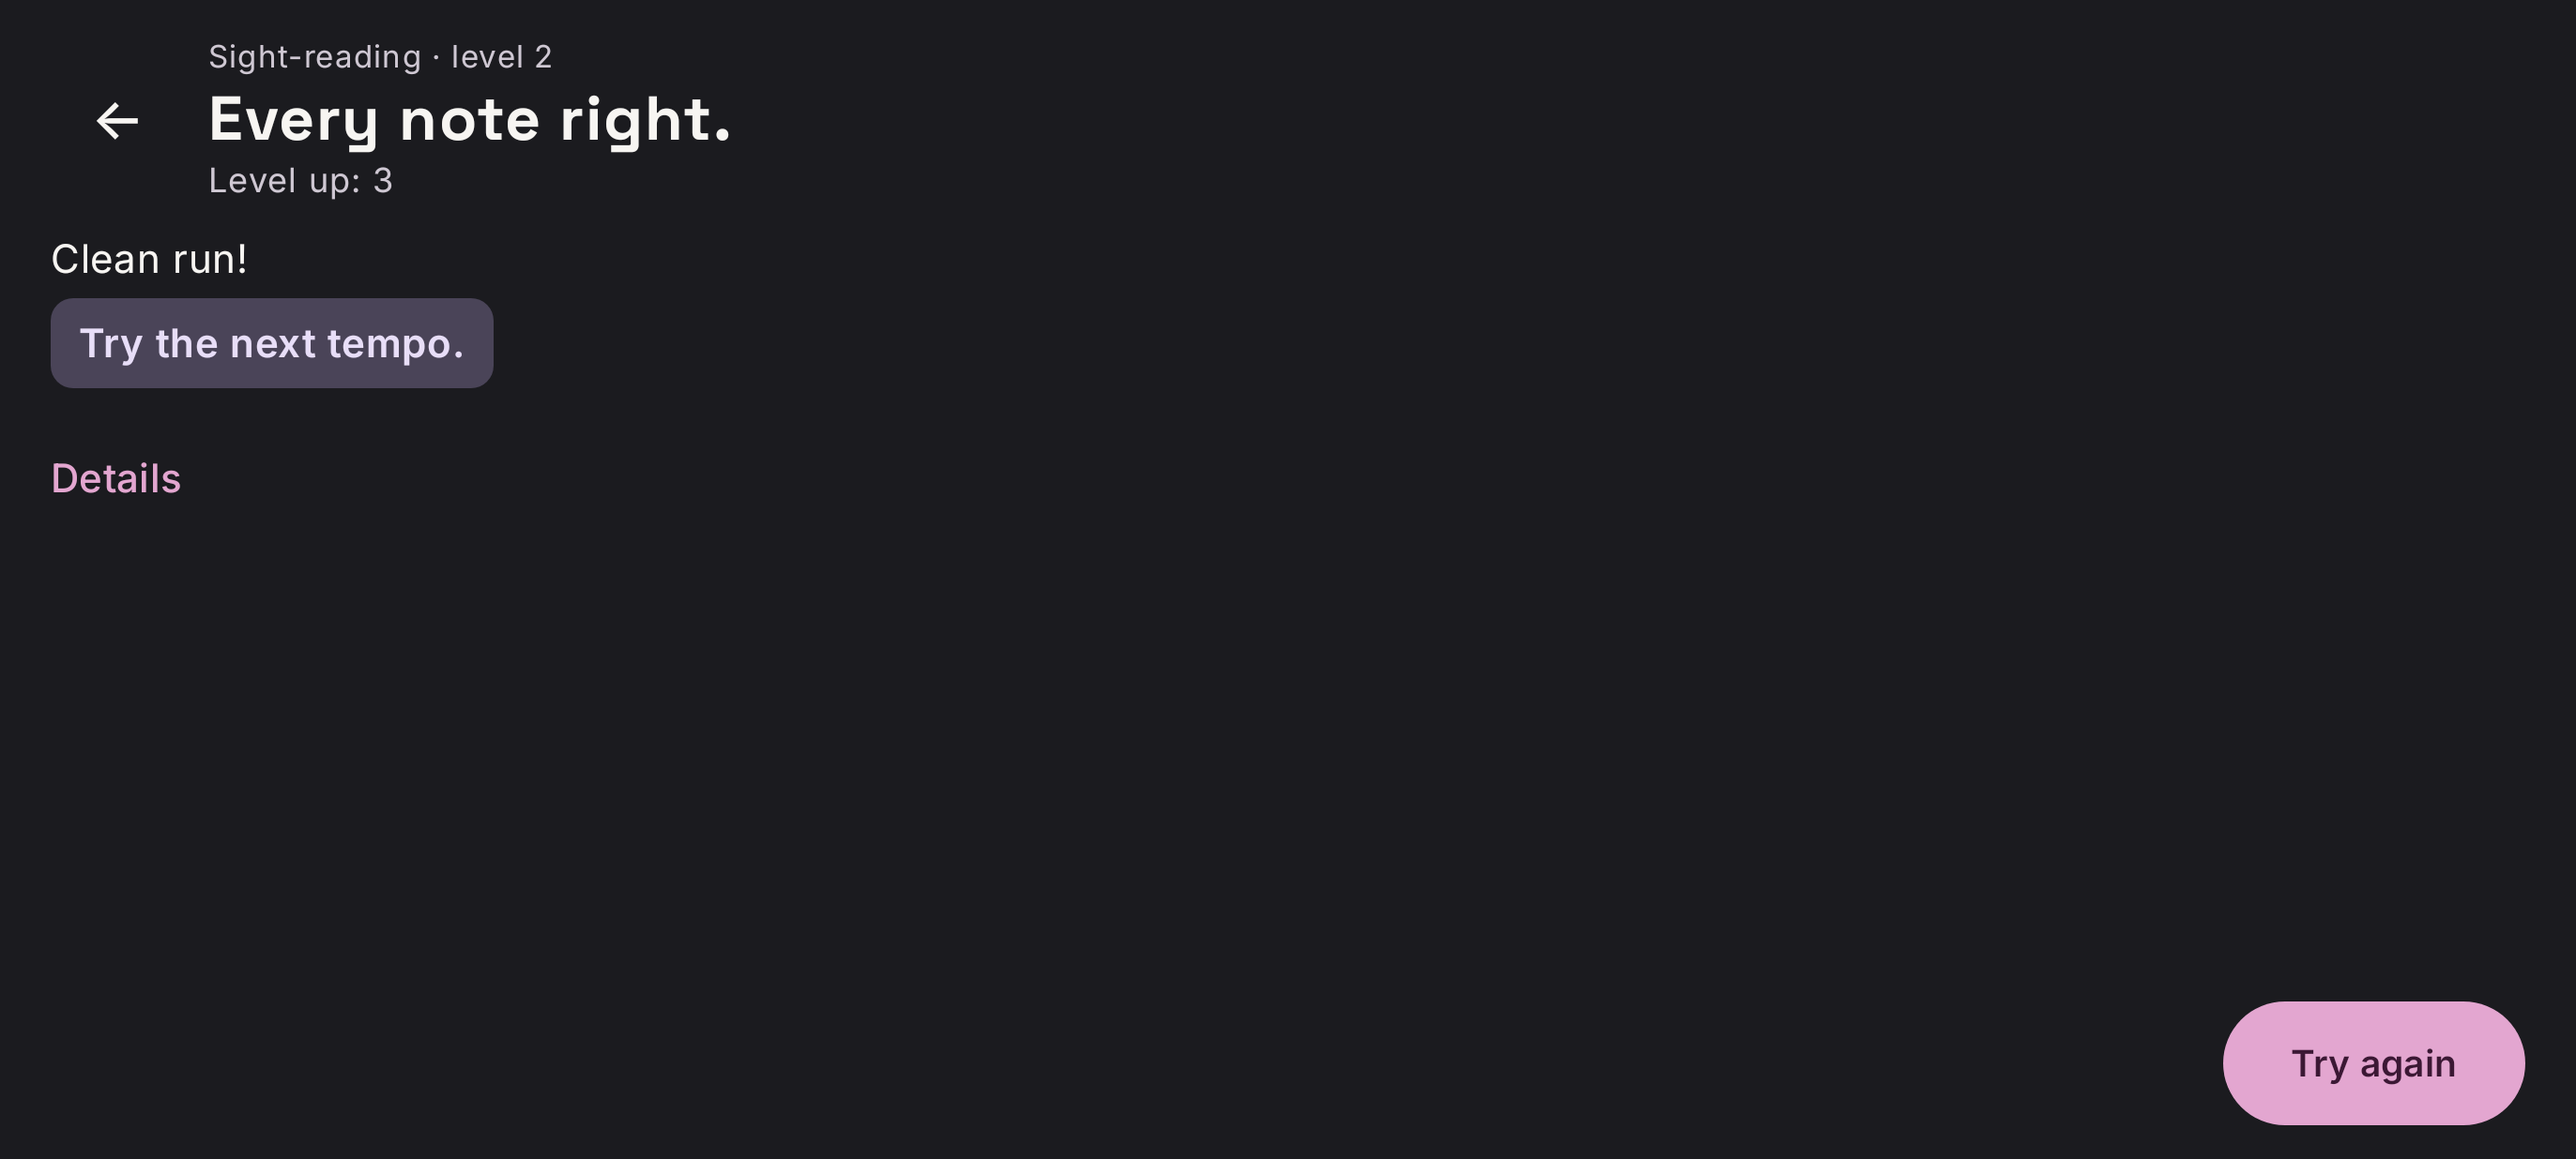
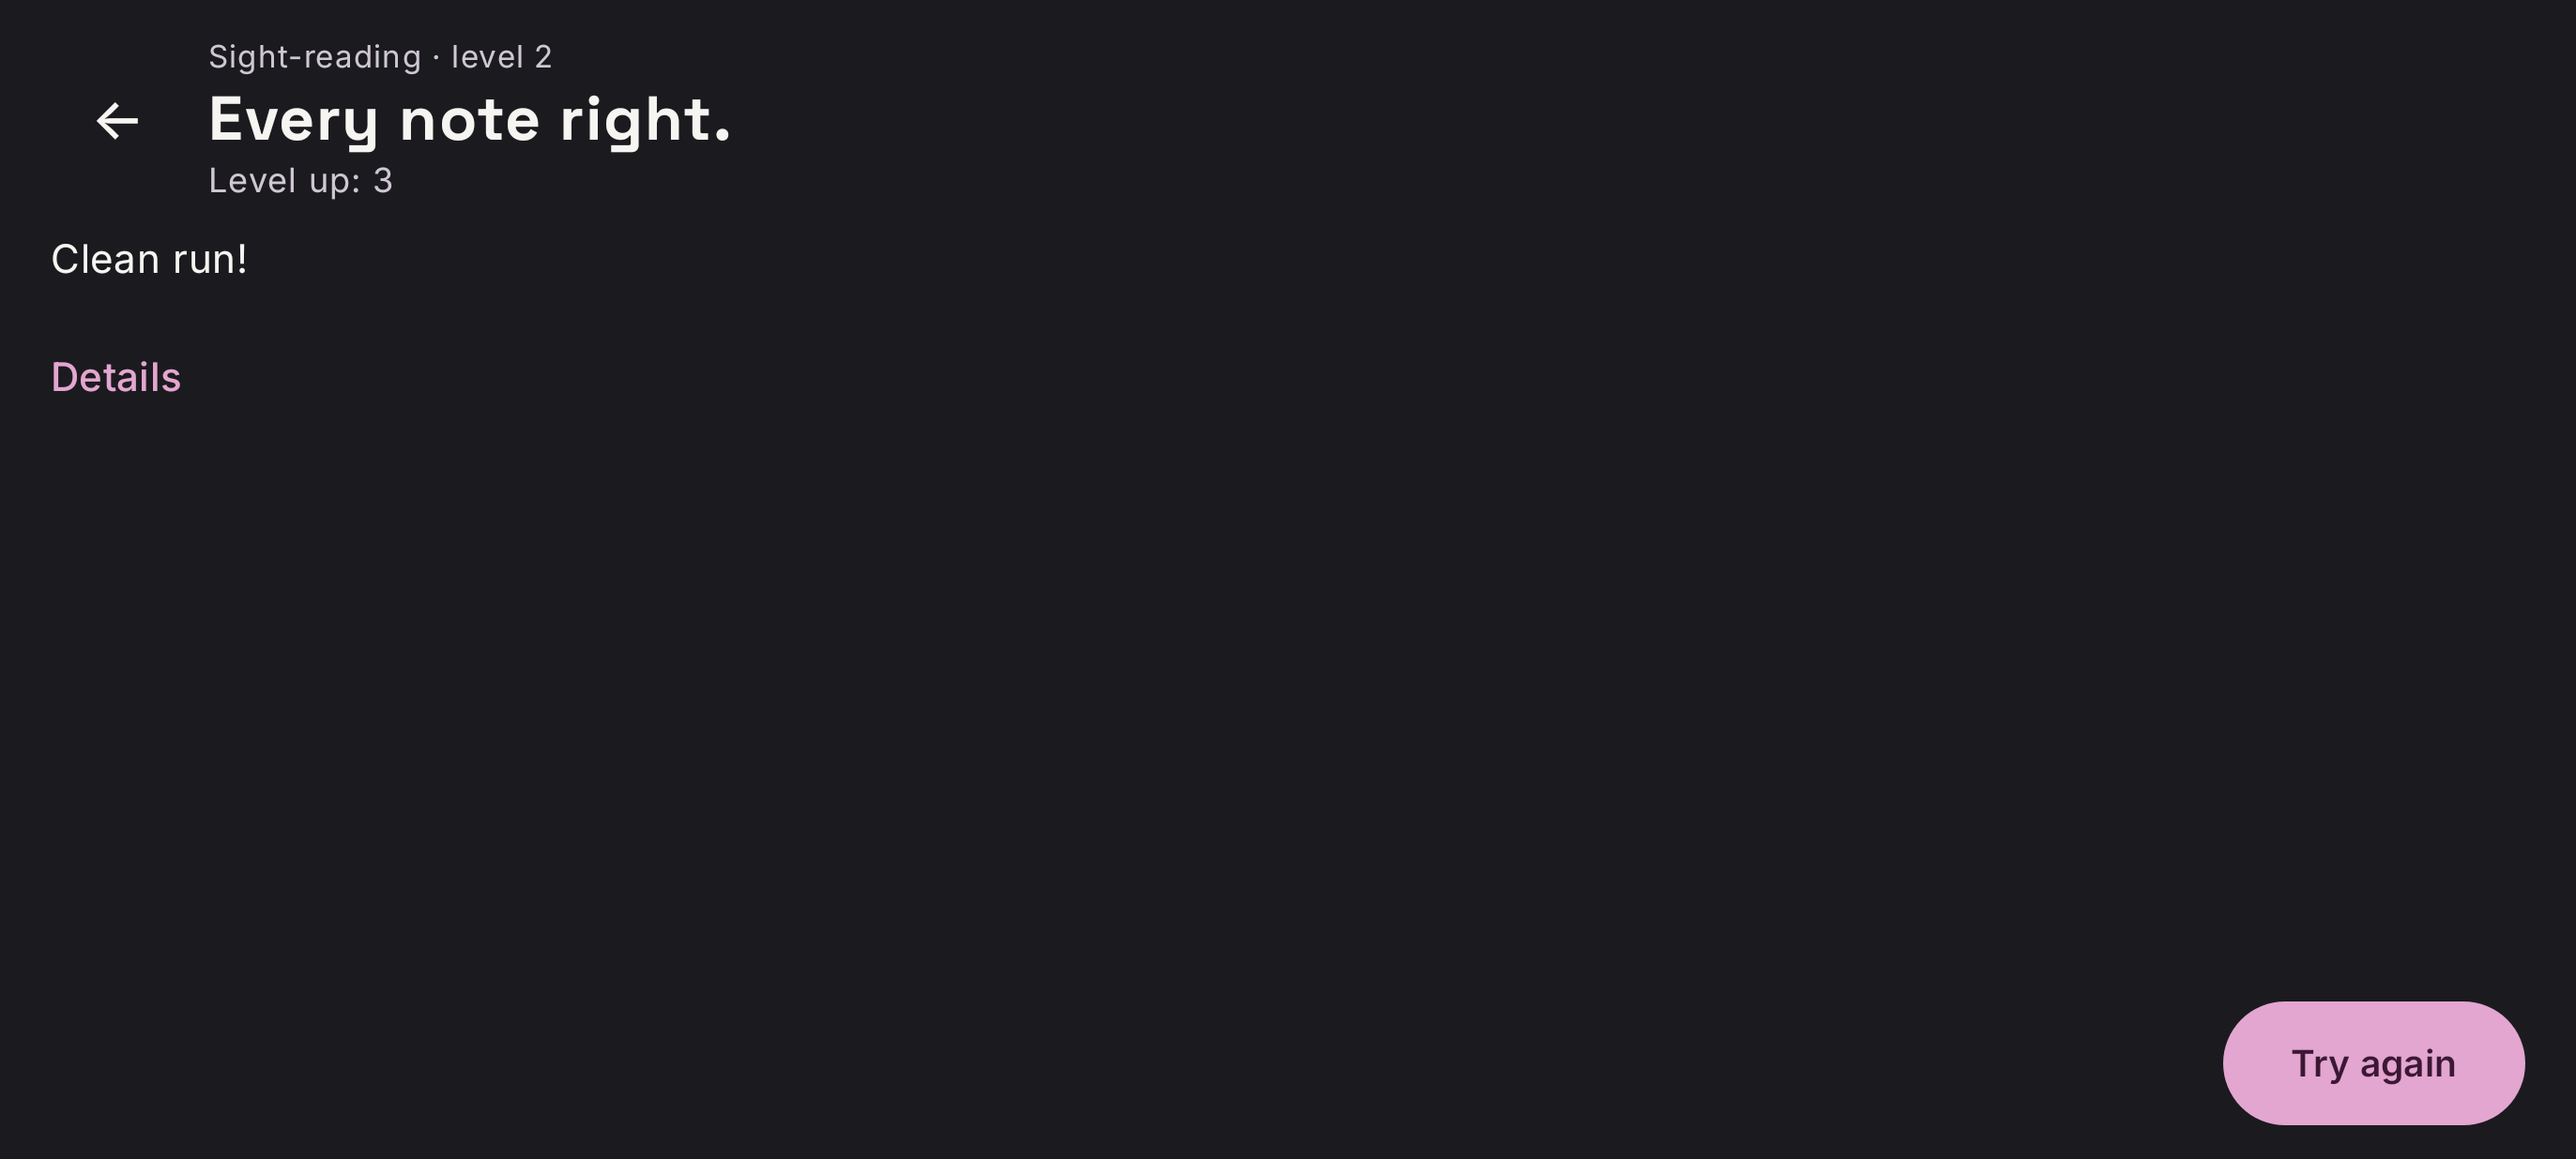
fix(today): sight-reading review fixes
Same learner day for the card's seed and its done-today check, no
next-tempo tip or key glow for sight-reading, id-ordered ties in the fake,
a checked run number in the Results caption and one shared id prefix.

Refs #246

Changed region(s): [[0.0, 0.246, 0.2168, 0.3382], [0.0, 0.3997, 0.0619, 0.4304]]

diff --git a/feature/practice/src/commonMain/kotlin/pianoanchor/feature/practice/ResultsViewModel.kt b/feature/practice/src/commonMain/kotlin/pianoanchor/feature/practice/ResultsViewModel.kt
@@ -31,8 +31,10 @@ import pianoanchor.engine.content.Curriculum
 import pianoanchor.engine.grading.HesitationSummary
 import pianoanchor.engine.grading.LengthSummary
 import pianoanchor.engine.grading.ResultsSummary
+import pianoanchor.engine.grading.ResultsWords
 import pianoanchor.engine.grading.ResultsWordsRule
 import pianoanchor.engine.grading.TimingSummary
+import pianoanchor.engine.grading.Tip
 import pianoanchor.engine.grading.noteNumber
 import pianoanchor.engine.grading.noteValue
 import pianoanchor.engine.guidance.SpotFinder
@@ -103,7 +105,7 @@ public class ResultsViewModel(
                 }
             }
         val summary = analysed?.first
-        val words = ResultsWordsRule.of(summary ?: waitSummary(attempt), attempt.tempoBpm, attempt.band)
+        val words = wordsOf(summary ?: waitSummary(attempt), attempt, sight != null)
         return ResultsState.Ready(
             passageTitle = passage?.title ?: attempt.passageId,
             runNumber = runNumber(attempt, sight),
@@ -137,7 +139,7 @@ public class ResultsViewModel(
     private suspend fun sightOutcome(attempt: Attempt): SightOutcome? {
         val (level, _) = SightReadingGenerator.parse(attempt.passageId) ?: return null
         val open = SightLevels.open(learner.learnedSkills())
-        val all = attempts.attemptsWithPassagePrefix(SIGHT_PREFIX)
+        val all = attempts.attemptsWithPassagePrefix(SightReadingGenerator.ID_PREFIX)
         val upTo = all.takeWhile { it.id != attempt.id } + attempt
         val before = upTo.dropLast(1)
         val now = SightStaircase.level(upTo, open)
@@ -230,7 +232,6 @@ public class ResultsViewModel(
 }
 
 private const val MILLIS_PER_TENTH = 100
-private const val SIGHT_PREFIX = "sight:"
 
 /** What an attempt with no analysis says: its own counts, no timing, length or pauses. */
 private fun waitSummary(attempt: Attempt) =
@@ -243,3 +244,13 @@ private fun waitSummary(attempt: Attempt) =
         wrongNotes = attempt.wrongNotes,
         incompleteChords = attempt.incompleteChords,
     )
+
+/** What Results say; a sight-reading run has no tempo to try next, so it gets no tip in that case. */
+private fun wordsOf(
+    summary: ResultsSummary,
+    attempt: Attempt,
+    sight: Boolean,
+): ResultsWords {
+    val words = ResultsWordsRule.of(summary, attempt.tempoBpm, attempt.band)
+    return if (sight && words.tip == Tip.NEXT_TEMPO) words.copy(tip = null) else words
+}

diff --git a/feature/practice/src/commonMain/kotlin/pianoanchor/feature/practice/ResultsScreen.kt b/feature/practice/src/commonMain/kotlin/pianoanchor/feature/practice/ResultsScreen.kt
@@ -180,19 +180,19 @@ private fun caption(state: ResultsState.Ready): String =
     if (state.sight != null) {
         stringResource(Res.string.results_sight_caption, state.sight.level.toString())
     } else if (state.tempoBpm == null) {
-        stringResource(Res.string.results_caption, state.passageTitle, state.runNumber.toString())
+        stringResource(Res.string.results_caption, state.passageTitle, checkNotNull(state.runNumber).toString())
     } else if (state.mode == RunMode.PERFORM) {
         stringResource(
             Res.string.results_caption_performed,
             state.passageTitle,
-            state.runNumber.toString(),
+            checkNotNull(state.runNumber).toString(),
             state.tempoBpm.toString(),
         )
     } else {
         stringResource(
             Res.string.results_caption_tempo,
             state.passageTitle,
-            state.runNumber.toString(),
+            checkNotNull(state.runNumber).toString(),
             state.tempoBpm.toString(),
         )
     }
@@ -276,14 +276,16 @@ private fun Words(state: ResultsState.Ready) {
         for (observation in state.words.observations) {
             Text(observationText(observation, state), style = MaterialTheme.typography.bodyMedium)
         }
-        Surface(shape = RoundedCornerShape(8.dp), color = MaterialTheme.colorScheme.secondaryContainer) {
-            Text(
-                stringResource(tipText(state.words.tip)),
-                style = MaterialTheme.typography.bodyMedium,
-                fontWeight = FontWeight.SemiBold,
-                color = MaterialTheme.colorScheme.onSecondaryContainer,
-                modifier = Modifier.padding(horizontal = 10.dp, vertical = 6.dp),
-            )
+        state.words.tip?.let { tip ->
+            Surface(shape = RoundedCornerShape(8.dp), color = MaterialTheme.colorScheme.secondaryContainer) {
+                Text(
+                    stringResource(tipText(tip)),
+                    style = MaterialTheme.typography.bodyMedium,
+                    fontWeight = FontWeight.SemiBold,
+                    color = MaterialTheme.colorScheme.onSecondaryContainer,
+                    modifier = Modifier.padding(horizontal = 10.dp, vertical = 6.dp),
+                )
+            }
         }
     }
 }

diff --git a/feature/today/src/commonMain/kotlin/pianoanchor/feature/today/TodayViewModel.kt b/feature/today/src/commonMain/kotlin/pianoanchor/feature/today/TodayViewModel.kt
@@ -40,6 +40,7 @@ import pianoanchor.engine.session.Card
 import pianoanchor.engine.session.SessionComposer
 import pianoanchor.engine.session.passageHistories
 import pianoanchor.engine.sight.SightLevels
+import pianoanchor.engine.sight.SightReadingGenerator
 import pianoanchor.engine.sight.SightStaircase
 import pianoanchor.engine.update.isNewer
 import kotlin.math.roundToInt
@@ -48,7 +49,6 @@ import kotlin.time.Clock
 private const val MORNING_FROM_HOUR = 5
 private const val AFTERNOON_FROM_HOUR = 12
 private const val EVENING_FROM_HOUR = 18
-private const val SIGHT_PREFIX = "sight:"
 private const val NANOS_PER_MILLI = 1_000_000.0
 
 /**
@@ -142,7 +142,7 @@ public class TodayViewModel(
             val windowStart = today.minus(PRACTICE_WINDOW_DAYS - 1, DateTimeUnit.DAY)
             val from = minOf(weekStart, windowStart)
             val days = attempts.practiceDays(from, zone) + learner.reviewDays(from)
-            val sightAttempts = attempts.attemptsWithPassagePrefix(SIGHT_PREFIX)
+            val sightAttempts = attempts.attemptsWithPassagePrefix(SightReadingGenerator.ID_PREFIX)
             val learned = learner.learnedSkills()
             val session =
                 SessionComposer.compose(
@@ -154,7 +154,7 @@ public class TodayViewModel(
                     learnerDay(now, zone),
                     quizzesDone = learner.quizzesOn(learnerDay(now, zone)),
                     sightLevel = SightStaircase.level(sightAttempts, SightLevels.open(learned)),
-                    sightDoneToday = sightAttempts.any { it.startedAt.toLocalDateTime(zone).date == today },
+                    sightDoneToday = sightAttempts.any { learnerDay(it.startedAt, zone) == learnerDay(now, zone) },
                 )
             mutableState.update {
                 it.copy(

diff --git a/engine/src/commonMain/kotlin/pianoanchor/engine/sight/SightReadingGenerator.kt b/engine/src/commonMain/kotlin/pianoanchor/engine/sight/SightReadingGenerator.kt
@@ -12,7 +12,6 @@ import pianoanchor.engine.content.exerciseRights
 import kotlin.math.abs
 import kotlin.random.Random
 
-private const val ID_PREFIX = "sight"
 private const val ID_PARTS = 3
 private const val LEFT_HAND_LEVEL = 4
 private const val TURNS_LEVEL = 5
@@ -78,8 +77,13 @@ private class Slot(
     val first: Boolean,
 )
 
+private const val ID_NAME = "sight"
+
 /** Draws sight-reading exercises (`docs/algorithms/sight-reading.md`). Pure over a seeded [Random]. */
 public object SightReadingGenerator {
+    /** What every exercise id starts with: "sight:". */
+    public const val ID_PREFIX: String = "$ID_NAME:"
+
     /**
      * The exercise for [level] (1..8) and [seed]: id "sight:<level>:<seed>", SIGHT_BARS bars, rights ORIGINAL,
      * skills empty, piece false. Same inputs give an equal [Passage]. Throws [IllegalArgumentException] for a level
@@ -124,7 +128,7 @@ public object SightReadingGenerator {
     public fun idOf(
         level: Int,
         seed: Long,
-    ): String = "$ID_PREFIX:$level:$seed"
+    ): String = "$ID_PREFIX$level:$seed"
 
     /** The exercise an id names (see [parse]); null for any other id. */
     public fun fromId(id: String): Passage? = parse(id)?.let { (level, seed) -> passage(level, seed) }
@@ -134,7 +138,7 @@ public object SightReadingGenerator {
         val parts = id.split(':')
         val level = parts.getOrNull(1)?.toIntOrNull()?.takeIf { it in 1..SightLevels.all.size }
         val seed = parts.getOrNull(2)?.toLongOrNull()
-        val sight = parts.size == ID_PARTS && parts[0] == ID_PREFIX
+        val sight = parts.size == ID_PARTS && parts[0] == ID_NAME
         return if (sight && level != null && seed != null) level to seed else null
     }
 

diff --git a/feature/practice/src/commonTest/kotlin/pianoanchor/feature/practice/PracticeViewModelSightTest.kt b/feature/practice/src/commonTest/kotlin/pianoanchor/feature/practice/PracticeViewModelSightTest.kt
@@ -12,6 +12,7 @@ import kotlinx.coroutines.test.setMain
 import kotlinx.datetime.TimeZone
 import pianoanchor.core.model.HintLevel
 import pianoanchor.core.model.MidiDevice
+import pianoanchor.core.model.MidiNote
 import pianoanchor.core.model.RunMode
 import pianoanchor.engine.content.Curriculum
 import pianoanchor.engine.learner.LearnerModel
@@ -128,5 +129,27 @@ class PracticeViewModelSightTest {
             runCurrent()
             assertEquals(RunMode.PRACTICE, vm.state.value.mode)
             assertTrue(vm.state.value.sightReading)
+        }
+
+    @Test
+    fun aWrongKeyShowsTheLandmarkLineButLightsNoKey() =
+        runTest(dispatcher) {
+            val vm = practice()
+            val wrong =
+                sight.steps
+                    .first()
+                    .pitches
+                    .first()
+                    .number + 1
+
+            clock.advanceNanos(300_000_000)
+            piano.press(MidiNote(wrong))
+            runCurrent()
+
+            assertNotNull(vm.state.value.hint)
+            assertTrue(
+                vm.state.value.hintGlow
+                    .isEmpty(),
+            )
         }
 }

diff --git a/feature/today/src/commonTest/kotlin/pianoanchor/feature/today/TodayViewModelTest.kt b/feature/today/src/commonTest/kotlin/pianoanchor/feature/today/TodayViewModelTest.kt
@@ -581,4 +581,27 @@ class TodayViewModelTest : TodayViewModelFixture() {
                 assertNotNull(sightCard(early)).passage.id,
             )
         }
+
+    @Test
+    fun noSightCardAfterMidnightBeforeTheLearnerDayStarts() =
+        runTest(dispatcher) {
+            givenStates(skillState(Skills.STAFF_STEPS.id, dueDay = LocalDate(2026, 12, 1), learned = true))
+            // Played at 23:00 on the 17th; at 01:00 on the 18th it is still the same learner day.
+            playedOn("2026-11-17", id = "s-1", passageId = "sight:1:1", hour = "23")
+            val vm =
+                TodayViewModel(
+                    LearnerModel(Curriculum.graph, learnerRepository),
+                    settings,
+                    attempts,
+                    piano,
+                    piano,
+                    calibration,
+                    FakeWallClock(Instant.parse("2026-11-18T01:00:00Z")),
+                    TimeZone.UTC,
+                    updateCheck,
+                    INSTALLED,
+                ).also { runCurrent() }
+
+            assertNull(sightCard(vm))
+        }
 }

diff --git a/testing/src/commonMain/kotlin/pianoanchor/testing/AttemptRepositoryPortContractTest.kt b/testing/src/commonMain/kotlin/pianoanchor/testing/AttemptRepositoryPortContractTest.kt
@@ -395,6 +395,15 @@ abstract class AttemptRepositoryPortContractTest {
             assertFailsWith<IllegalArgumentException> { repository.attemptsWithPassagePrefix("") }
             assertFailsWith<IllegalArgumentException> { repository.attemptsWithPassagePrefix("  ") }
         }
+
+    @Test
+    fun attemptsWithPassagePrefixBreaksStartTiesById() =
+        runTest {
+            val repository = createSubject()
+            repository.save(attempt("a-2", startedAtSeconds = 1_000, passageId = "sight:1:20"))
+            repository.save(attempt("a-1", startedAtSeconds = 1_000, passageId = "sight:1:21"))
+            assertEquals(listOf("a-1", "a-2"), repository.attemptsWithPassagePrefix("sight:").map { it.id })
+        }
 }
 
 private const val TEMPO_A = 48

diff --git a/feature/practice/src/commonTest/kotlin/pianoanchor/feature/practice/ResultsViewModelTest.kt b/feature/practice/src/commonTest/kotlin/pianoanchor/feature/practice/ResultsViewModelTest.kt
@@ -745,4 +745,13 @@ class ResultsViewModelTest {
             assertNull(ready.spot)
             assertEquals("Sight-reading level 1", ready.passageTitle)
         }
+
+    @Test
+    fun sightCleanRunGivesNoNextTempoTip() =
+        runTest(dispatcher) {
+            learnSight(Skills.STAFF_STEPS)
+            val vm = results("s-1", sightAttempt("s-1", 100, 1, Band.CLEAN))
+
+            assertNull(assertIs<ResultsState.Ready>(vm.state.value).words.tip)
+        }
 }

diff --git a/engine/src/commonMain/kotlin/pianoanchor/engine/grading/ResultsWords.kt b/engine/src/commonMain/kotlin/pianoanchor/engine/grading/ResultsWords.kt
@@ -32,10 +32,10 @@ public enum class Tip {
     NEXT_TEMPO,
 }
 
-/** The first one or two [observations] in priority order, and the [tip] for the first. */
+/** The first one or two [observations] in priority order, and the [tip] for the first (null: none to give). */
 public data class ResultsWords(
     val observations: List<Observation>,
-    val tip: Tip,
+    val tip: Tip?,
 )
 
 /** Picks what Results say about a run. */

diff --git a/testing/src/commonMain/kotlin/pianoanchor/testing/FakeAttemptRepository.kt b/testing/src/commonMain/kotlin/pianoanchor/testing/FakeAttemptRepository.kt
@@ -92,7 +92,7 @@ class FakeAttemptRepository : AttemptRepositoryPort {
         require(prefix.isNotBlank()) { "prefix must not be blank" }
         return attempts.value.values
             .filter { it.passageId.startsWith(prefix) }
-            .sortedBy { it.startedAt }
+            .sortedWith(compareBy({ it.startedAt }, { it.id }))
     }
 
     private fun failIfFailing(operation: String) {

diff --git a/feature/practice/src/androidHostTest/kotlin/pianoanchor/feature/practice/ResultsScreenScreenshotTest.kt b/feature/practice/src/androidHostTest/kotlin/pianoanchor/feature/practice/ResultsScreenScreenshotTest.kt
@@ -68,6 +68,7 @@ class ResultsScreenScreenshotTest {
             clean.copy(
                 passageTitle = "Sight-reading level 2",
                 runNumber = null,
+                words = ResultsWords(listOf(Observation.CLEAN), tip = null),
                 sight = SightOutcome(level = 2, change = SightChange.UP, newLevel = 3),
             ),
         )

diff --git a/feature/practice/src/commonMain/kotlin/pianoanchor/feature/practice/PracticeViewModel.kt b/feature/practice/src/commonMain/kotlin/pianoanchor/feature/practice/PracticeViewModel.kt
@@ -591,6 +591,7 @@ public class PracticeViewModel(
                     flash = flash,
                     lastKey = flash,
                 ).withHint(note, flash.correct, needed, advanced)
+                .let { state -> if (sight) state.copy(hintGlow = emptySet()) else state }
         }
         flashTimer?.cancel()
         flashTimer =
